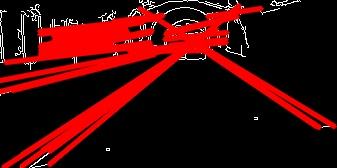
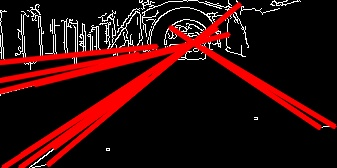
update line calculation

diff --git a/section_2/task_3/src/consumer.h b/section_2/task_3/src/consumer.h
@@ -104,6 +104,7 @@ SC_MODULE(memory_consumer) {
     }
 
     int calculate_lines(cv::Mat& input, cv::Mat& output){
+        // based on https://docs.opencv.org/3.4/d9/db0/tutorial_hough_lines.html
         Mat edge_detected;
 
         // Load image
@@ -118,7 +119,7 @@ SC_MODULE(memory_consumer) {
 
         // Probabilistic Line Transform
         std::vector<cv::Vec4i> linesP;
-        HoughLinesP(edge_detected, linesP, 1, CV_PI/180, 50, 50, 10 ); // runs the actual detection
+        HoughLinesP(edge_detected, linesP, 1, CV_PI/180, 100, 50, 10 ); // runs the actual detection
         for( size_t i = 0; i < linesP.size(); i++ )
         {
             Vec4i l = linesP[i];
